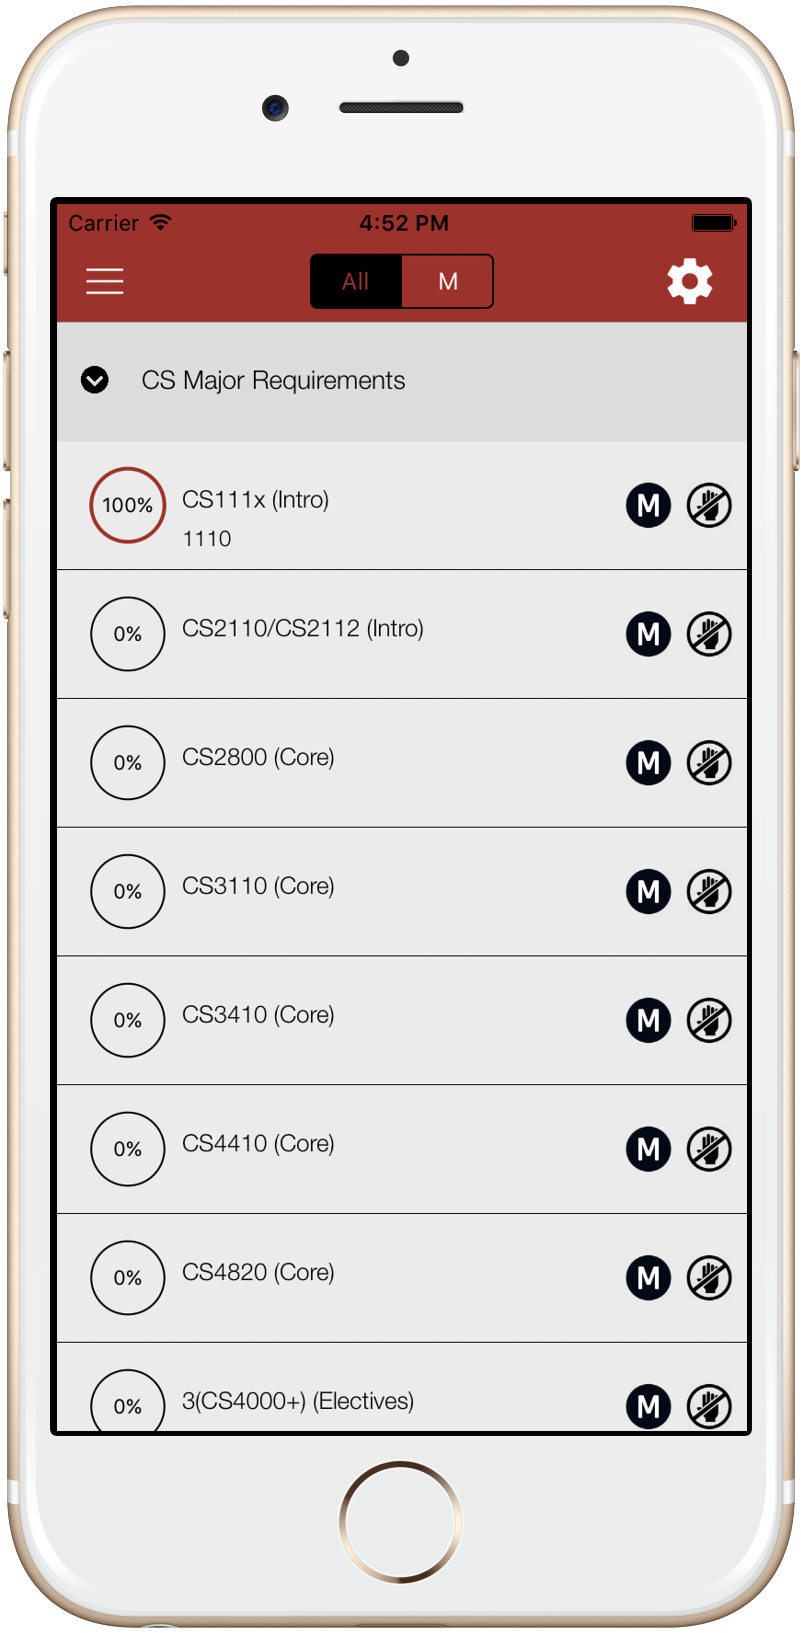
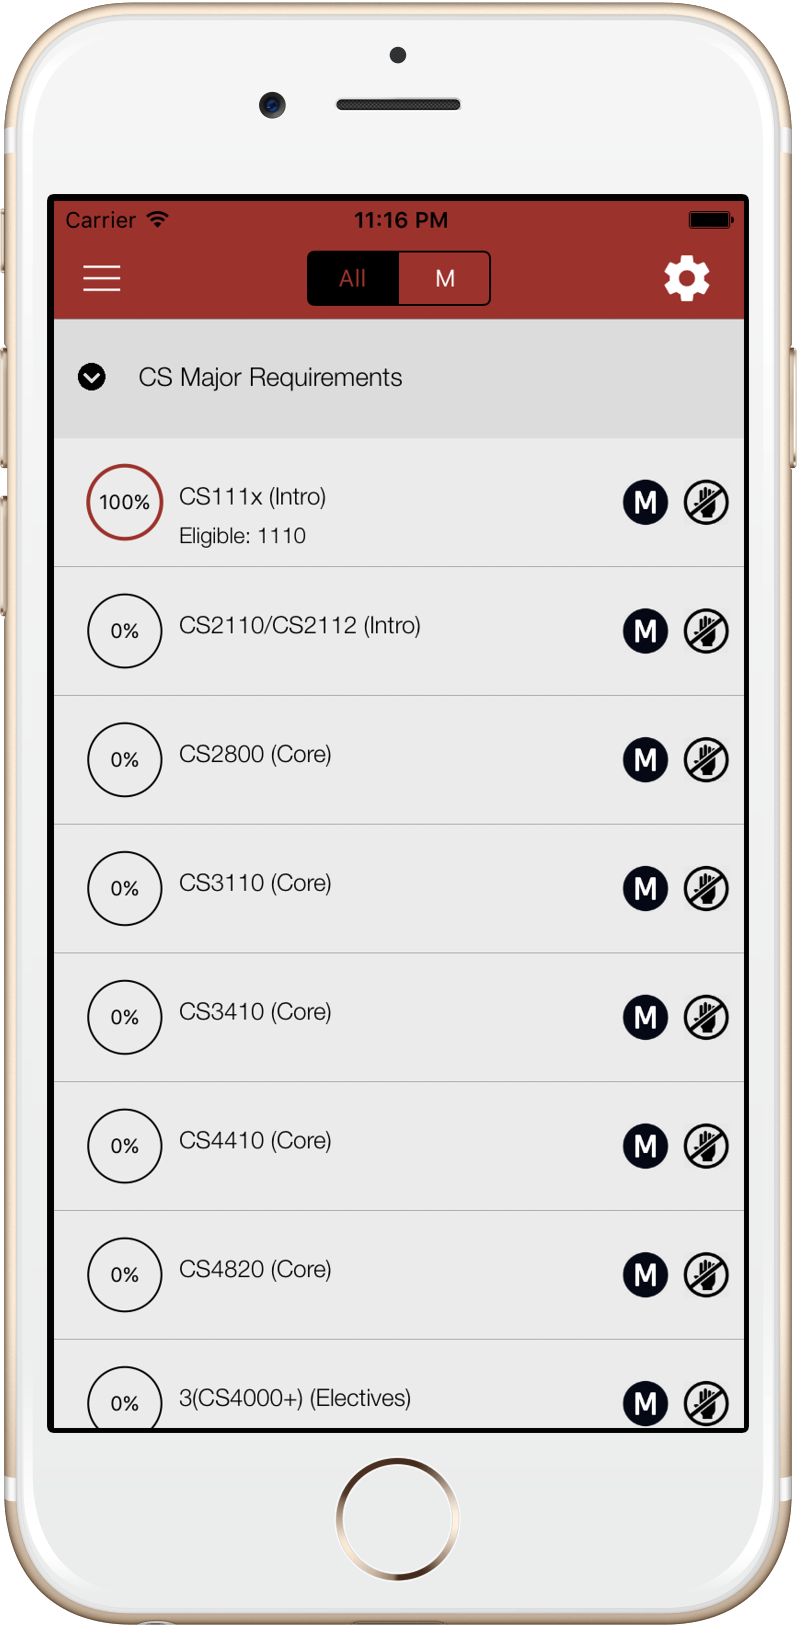
Release 1.0

Changed region(s): [[0.0, 0.0, 0.9988, 0.9994], [0.2185, 0.7495, 0.4057, 0.7808]]

diff --git a/ClassGuide/SD.swift b/ClassGuide/SD.swift
@@ -19,7 +19,8 @@ class SD: ReqSet {
     var seen: [Int] = []
     var taken5430 = RequirementItem(fulfillment: 1, description: "CS5430 (Security & Trustworthy Systems) ", type: .Optional, supported: .Supported)
     var taken5412or5414 = RequirementItem(fulfillment: 1, description: "CS5412/CS5414 (Security & Trustworthy Systems) ", type: .Optional, supported: .Supported)
-    var taken4320or5300 = RequirementItem(fulfillment: 1, description: "CS4320/CS5300 (Data-Intensive Computing) ", type: .Optional, supported: .Supported)
+    var taken4320 = RequirementItem(fulfillment: 1, description: "CS4320 (Data-Intensive Computing) ", type: .Optional, supported: .Supported)
+    var taken5300 = RequirementItem(fulfillment: 1, description: "CS5300 (Data-Intensive Computing) ", type: .Optional, supported: .Supported)
     var taken4321 = RequirementItem(fulfillment: 1, description: "CS4321 (Data-Intensive Computing) ", type: .Optional, supported: .Supported)
     var takenExtraCSF78xor4758or4300or6740 = RequirementItem(fulfillment: 1, description: "Extra CSF78x/CS4758/CS4300/CS6740 (Data-Intensive Computing) ", type: .Optional, supported: .Supported)
     var reqItems: [RequirementItem]!
@@ -31,7 +32,8 @@ class SD: ReqSet {
             taken4411,
             taken5430,
             taken5412or5414,
-            taken4320or5300,
+            taken4320,
+            taken5300,
             taken4321,
             takenExtraCSF78xor4758or4300or6740,
             RequirementItem(fulfillment: 0, description: "CS4830/CS4860/MATH3360 (Security & Trustworthy Systems) ", type: .Optional, supported: .Unsupported)
@@ -54,15 +56,15 @@ class SD: ReqSet {
             if course.courseNumber == 5412 || course.courseNumber == 5414 {
                 taken5412or5414.increment(course)
             }
-            if course.courseNumber == 4320 || course.courseNumber == 5300{
-                taken4320or5300.increment(course)
+            if course.courseNumber == 4320 {
+                taken4320.increment(course)
+            } else if course.courseNumber == 5300 {
+                taken5300.increment(course)
             }
         }
         
-        if F4xxorF12xorF32xor5300Fulfilled.completed {
-            if checkF78xor4758or4300or6740(course) {
-                takenExtraCSF78xor4758or4300or6740.increment(course)
-            }
+        if checkF78xor4758or4300or6740(course) {
+            takenExtraCSF78xor4758or4300or6740.increment(course)
         }
     }
     

diff --git a/ClassGuide/SymbolViewController.swift b/ClassGuide/SymbolViewController.swift
@@ -63,10 +63,10 @@ extension SymbolViewController: UICollectionViewDataSource, UICollectionViewDele
         switch indexPath.row {
         case 0:
             symbolName = "mandatoryIcon"
-            description = "Requirement is mandatory"
+            description = "Requirement is mandatory for graduation (if pursuing vector)"
         case 1:
             symbolName = "optionalIcon"
-            description = "Requirement is optional"
+            description = "Requirement is optional for graduation"
         case 2:
             symbolName = "noHandIcon"
             description = "Requirement's fulfillment can't be toggled with a tap"
@@ -75,13 +75,13 @@ extension SymbolViewController: UICollectionViewDataSource, UICollectionViewDele
             description = "Requirement's fulfillment can be toggled with a tap"
         case 4:
             symbolName = "checkIcon"
-            description = "Course is marked as Taken"
+            description = "Course is marked as Taken. Toggle with a tap"
         case 5:
             symbolName = "planIcon"
-            description = "Course is marked as Plan to Take"
+            description = "Course is marked as Plan to Take. Toggle with a tap"
         case 6:
             symbolName = "questionmarkIcon"
-            description = "Course is marked as None"
+            description = "Course is marked as None. Toggle with a tap"
         case 7:
             symbolName = "fallIcon"
             description = "A fall semester"
@@ -96,7 +96,7 @@ extension SymbolViewController: UICollectionViewDataSource, UICollectionViewDele
             description = "Requirements, where you can see your progress towards completing the major and vectors"
         default:
             symbolName = "arrowIcon"
-            description = "Means that there will be a dropdown if you tap the cell"
+            description = "There will be a dropdown if you tap the cell"
         }
         
         cell.descriptionLabel.text = description

diff --git a/ClassGuide/ManageTableViewController.swift b/ClassGuide/ManageTableViewController.swift
@@ -31,7 +31,7 @@ class ManageTableViewController: UITableViewController, CoreDataDelegate, Course
         navigationItem.title = "Manage"
         self.editButtonItem().tintColor = .whiteColor()
         self.editButtonItem().image = UIImage(named: "editingIcon")
-        self.editButtonItem().title = ""
+        self.editButtonItem().title = " "
         navigationItem.rightBarButtonItem = self.editButtonItem()
         refreshCourses()
         addRevealVCButton()
@@ -62,6 +62,9 @@ class ManageTableViewController: UITableViewController, CoreDataDelegate, Course
     override func tableView(tableView: UITableView, cellForRowAtIndexPath indexPath: NSIndexPath) -> UITableViewCell {
         let cell = tableView.dequeueReusableCellWithIdentifier("CourseCell", forIndexPath: indexPath) as! CourseTableViewCell
         let thisCourse = desiredCourses[indexPath.row]
+        cell.course = thisCourse
+        cell.parentTable = self
+        cell.coreDataDelegate = self
         cell.courseCodeLabel.text = thisCourse.subject.rawValue + "\(thisCourse.courseNumber)"
         cell.courseCodeLabel.sizeToFit()
         cell.courseTitleLabel.text = thisCourse.titleShort

diff --git a/ClassGuide/RequirementsTableViewController.swift b/ClassGuide/RequirementsTableViewController.swift
@@ -62,11 +62,15 @@ class RequirementsTableViewController: UITableViewController {
         let desiredItem = progress[indexPath.section][indexPath.row]
         cell.requirementLabel.text = desiredItem.description
         cell.requirementLabel.adjustsFontSizeToFitWidth = true
-        var courseNumbers = ""
-        desiredItem.courses.forEach { (course: Course) in
-            courseNumbers += "\(course.courseNumber), "
+        if desiredItem.courses.isEmpty {
+            cell.courseLabel.text = ""
+        } else {
+            var courseNumbers = "Eligible: "
+            desiredItem.courses.forEach { (course: Course) in
+                courseNumbers += "\(course.courseNumber), "
+            }
+            cell.courseLabel.text = courseNumbers.chopSuffix(2)
         }
-        cell.courseLabel.text = courseNumbers.chopSuffix(2)
         cell.optionalImageView.image = (desiredItem.priority == .Mandatory) ? UIImage(named: "mandatoryIcon") : UIImage(named: "optionalIcon")
         if (desiredItem.supported == .Unsupported) {
             cell.isCSCourse = false

diff --git a/ClassGuideTests/ClassGuideTests.swift b/ClassGuideTests/ClassGuideTests.swift
@@ -257,7 +257,7 @@ class ClassGuideTests: XCTestCase {
         ]
         req.calculateProgress(NSMutableSet(array: takenCourses), plannedCourses: NSMutableSet())
         XCTAssertEqual(req.F4xxorF12xorF32xor5300Fulfilled.satisfied, 2)
-        XCTAssert(req.taken4320or5300.completed)
+        XCTAssert(req.taken4320.completed)
         takenCourses = [
             Course(number: 4411),
             Course(number: 5430),
@@ -269,7 +269,8 @@ class ClassGuideTests: XCTestCase {
         XCTAssert(req.taken4411.completed)
         XCTAssert(req.taken5430.completed)
         XCTAssert(req.taken5412or5414.completed)
-        XCTAssert(req.taken4320or5300.completed)
+        XCTAssert(req.taken4320.completed)
+        XCTAssert(req.taken5300.completed)
         takenCourses = [
         
         ]

diff --git a/ClassGuide/HomeTableViewController.swift b/ClassGuide/HomeTableViewController.swift
@@ -108,12 +108,16 @@ class HomeTableViewController: UITableViewController, CoreDataDelegate, CourseSe
         dataManager = DataManager.init()
         dataManager.defaults = defaults
         fetchCoreData()
+        if dataManager.needToFetch() {
+            SwiftSpinner.show("Fetching courses")
+        }
         dataManager.fetchCourses() { () in
             self.courses = self.dataManager.courseArray
             self.processTakenAndPlannedCourses()
             self.processCourses()
             self.saveCoreData()
             self.tableView.reloadData()
+            SwiftSpinner.hide()
         }
         navigationItem.title = "CS Courses"
         navigationController?.navigationBar.backgroundColor = UIColor.lightGrey

diff --git a/ClassGuide/AI.swift b/ClassGuide/AI.swift
@@ -30,7 +30,7 @@ class AI: ReqSet {
             takenF74xor4300,
             taken4300orF74xorF75xorF67xorF2xx,
             RequirementItem(fulfillment: 0, description: "LINGFxxx (Human-Language Technology) ", type: .Optional, supported: .Unsupported),
-            RequirementItem(fulfillment: 0, description: "LINGFxxx/CSF74x/CSF1110 (Human-Language Technology) ", type: .Optional, supported: .Unsupported),
+            RequirementItem(fulfillment: 0, description: "LINGFxxx/CSF74x/CSF110 (Human-Language Technology) ", type: .Optional, supported: .Unsupported),
             RequirementItem(fulfillment: 0, description: "CSF78x/CS4758/CS4850/STSCIFxxx (Machine Learning) ", type: .Optional, supported: .Unsupported)
         ]
     }

diff --git a/ClassGuide/StyleExtension.swift b/ClassGuide/StyleExtension.swift
@@ -14,6 +14,8 @@ extension UIColor {
     @nonobjc static let darkGreen = UIColor(red: 0.0/255.0, green: 153.0/255.0, blue: 0.0/255.0, alpha: 1.0)
     @nonobjc static let maroon = UIColor(red: 102.0/255.0, green: 0/255.0, blue: 0/255.0, alpha: 1.0)
     @nonobjc static let lightGrey = UIColor(red: 220.0/255.0, green: 220.0/255.0, blue: 220.0/255.0, alpha: 1.0)
+    @nonobjc static let lighterGrey = UIColor(red: 230.0/255.0, green: 235.0/255.0, blue: 235.0/255.0, alpha: 1.0)
+
 }
 
 extension UIView {

diff --git a/ClassGuide/SettingsTableViewController.swift b/ClassGuide/SettingsTableViewController.swift
@@ -25,7 +25,7 @@ class SettingsTableViewController: UITableViewController, SettingsDelegate {
     
     override func viewDidLoad() {
         super.viewDidLoad()
-        tableView.backgroundColor = UIColor.lightGrey
+        tableView.backgroundColor = UIColor.lighterGrey
         tableView.registerNib(UINib(nibName: "SettingsTableViewCell", bundle: nil), forCellReuseIdentifier: "SettingsCell")
         navigationItem.title = "Settings"
         addRevealVCButton()

diff --git a/ClassGuide/DataManager.swift b/ClassGuide/DataManager.swift
@@ -63,6 +63,15 @@ public class DataManager: NSObject {
         
     }
     
+    public func needToFetch() -> Bool {
+        for semester in semesters {
+            if !defaults.boolForKey(semester) {
+                return true
+            }
+        }
+        return false
+    }
+    
     internal func createCourses(json: JSON, semester: String) {
         let courseJSON = json["data"]["classes"].arrayValue
         for c in courseJSON {
